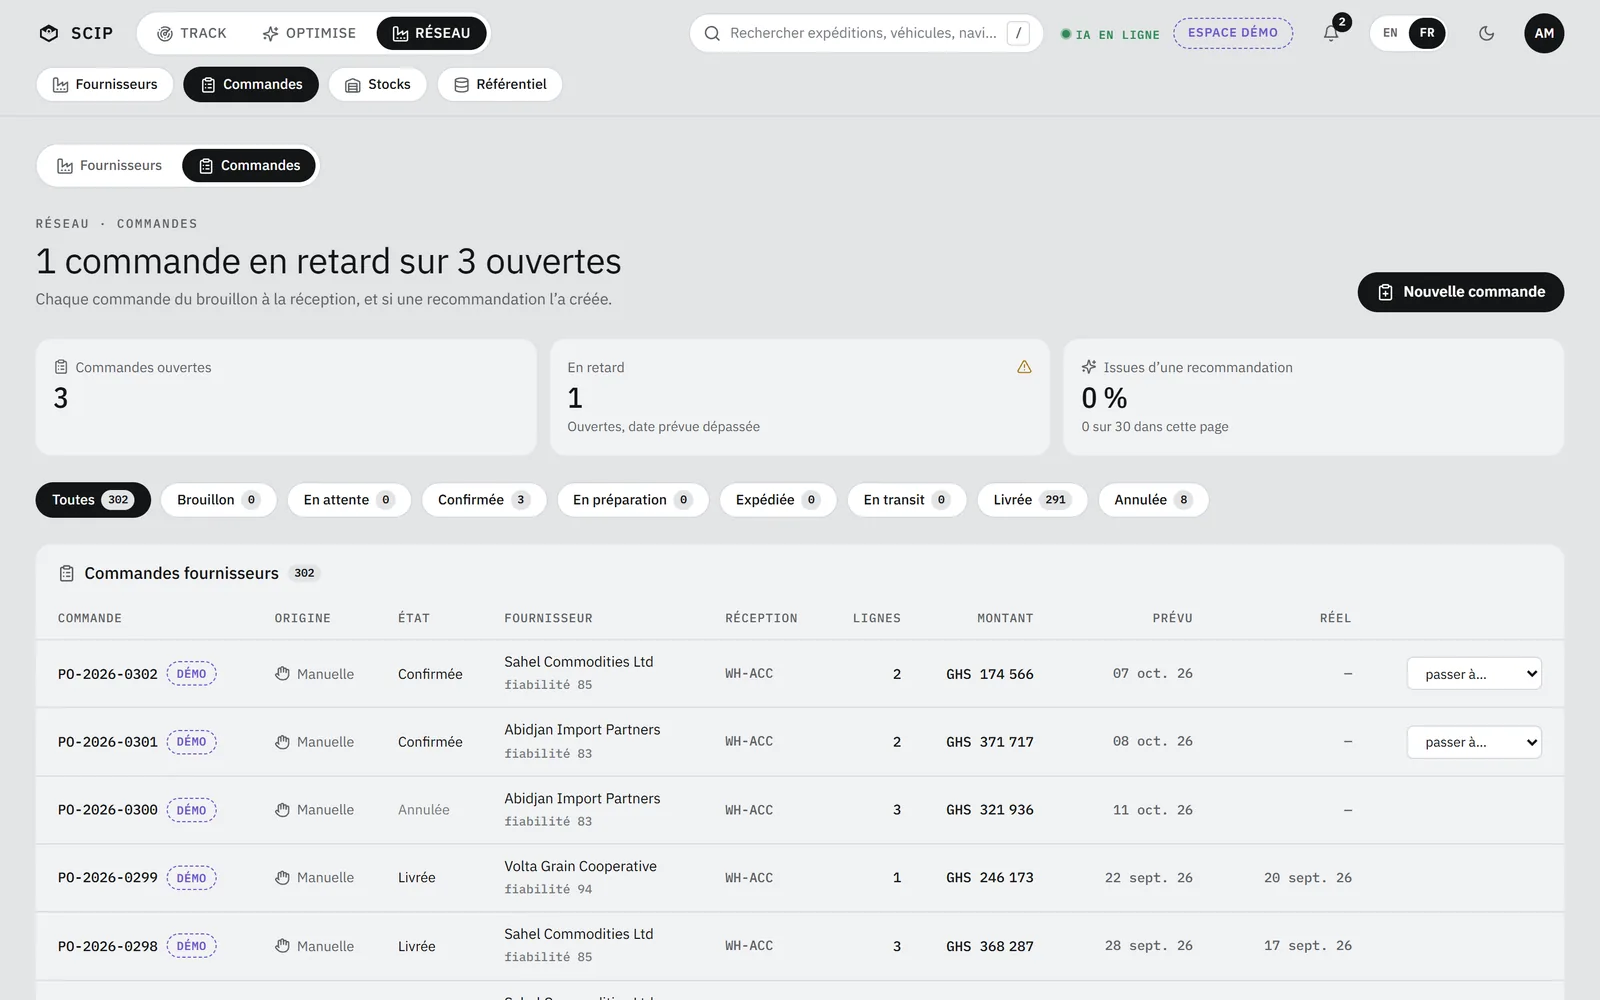
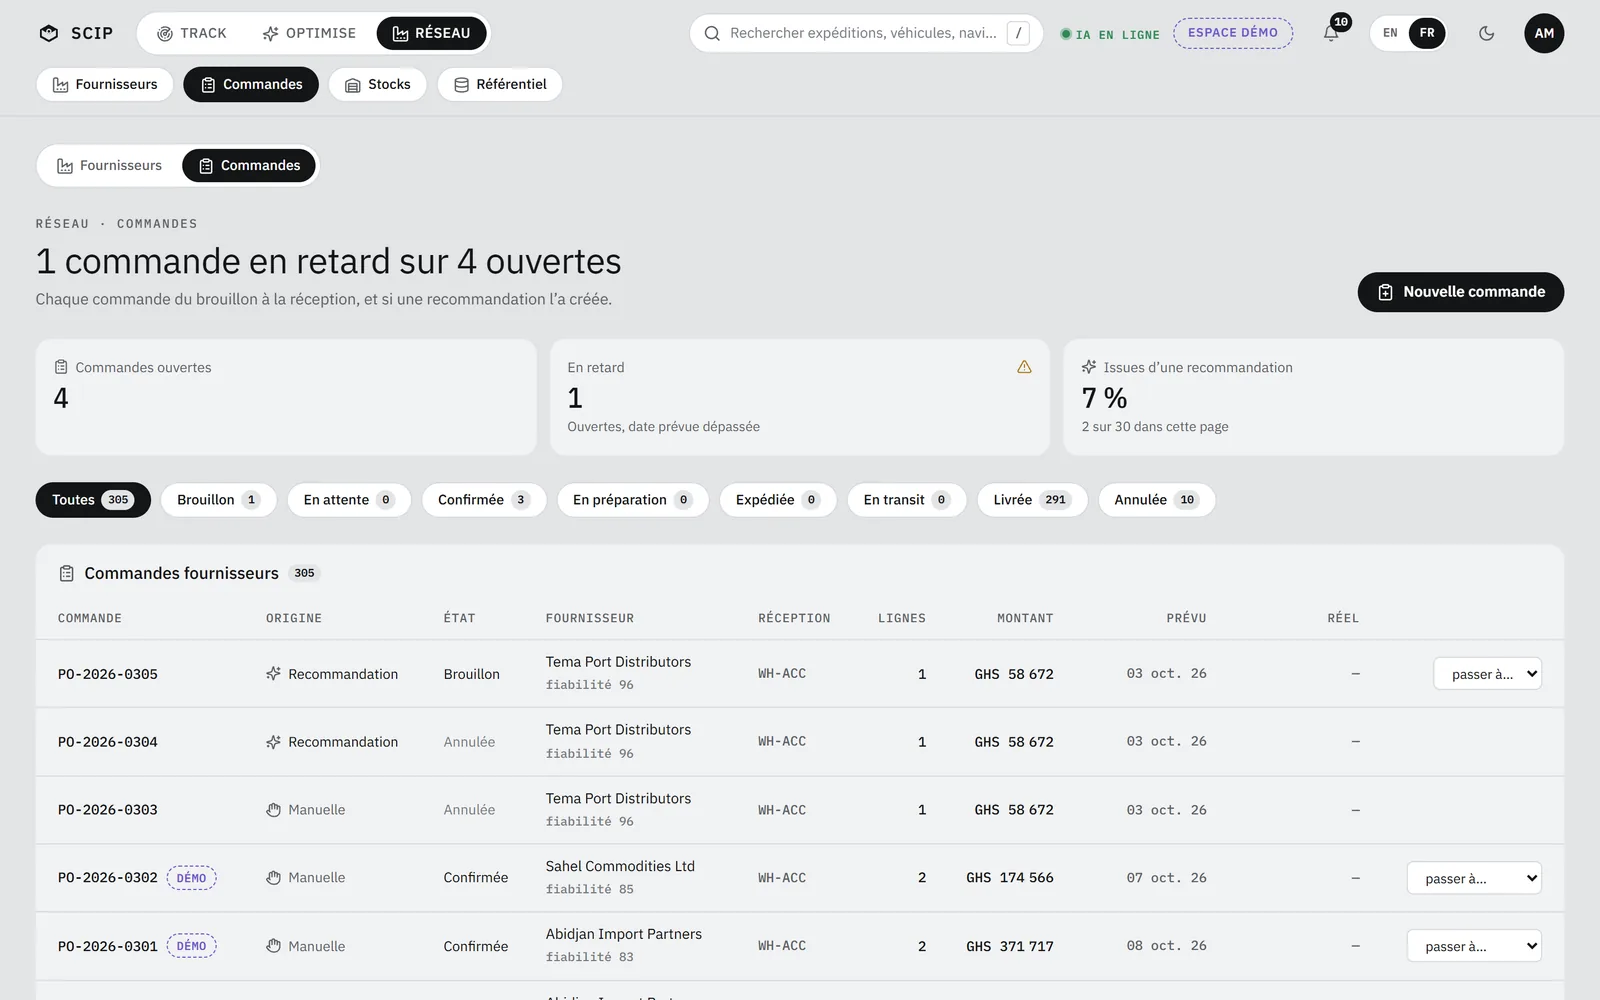
feat(site): captures and figures of the fixed demo
Conseils, Control and Commandes are shown as the next version displays them
(docs/captures/v0.2.2): three open recommendations, the critical one to order
2 963 units of SKU-006 from Tema Port Distributors with its first reason, and
the purchase order created by accepting it. Same conversion as the other
captures (1600 px wide, WebP quality 82). The copy and the alternative texts
quote these screens.

The installer capture is left as it is: the new one is labelled 0.2.2, a
version that will not exist.

To publish with the release that carries these fixes, not before.

diff --git a/optimisation.html b/optimisation.html
@@ -47,7 +47,7 @@
             <img src="assets/screens/tournees.webp" width="1600" height="1000" decoding="async" alt="Écran Tournées de SCIP : une tournée, cinq arrêts, trois non desservis.">
           </div>
           <div class="shot-win fan-b tilt" data-tilt="2" data-tilt-base="rotate(1deg)">
-            <img src="assets/screens/conseils.webp" width="1600" height="1000" fetchpriority="high" decoding="async" alt="Écran Conseils de SCIP : « 2 conseils ouverts ».">
+            <img src="assets/screens/conseils.webp" width="1600" height="1000" fetchpriority="high" decoding="async" alt="Écran Conseils de SCIP : « 3 conseils ouverts, 1 critique(s) », en tête « Commander 2 963 unités de SKU-006 auprès de Tema Port Distributors ».">
           </div>
         </div>
         <figcaption>Prévisions · Conseils · Tournées <span class="demo-tag">données démo</span></figcaption>
@@ -71,10 +71,10 @@
           <span class="mono n">01</span>
           <h3 class="t-section">Conseils</h3>
           <p class="t-body">Chaque recommandation porte « Pourquoi cette recommandation&nbsp;? » : un résumé, des raisons, des hypothèses. Deux boutons : « accepter et exécuter », « écarter ».</p>
-          <p class="fact">Dans la démo : 2 conseils ouverts. « Réduire le volume confié à Abidjan Import Partners », 72&nbsp;% de ponctualité ; « SKU&#8209;008 représente 158 jours de couverture ».</p>
+          <p class="fact">Dans la démo : 3 conseils ouverts, dont 1 critique. En tête : « Commander 2&nbsp;963 unités de SKU&#8209;006 auprès de Tema Port Distributors ». Première raison affichée : « Le calcul porte sur Accra Central DC seul : ce site est sous son point de commande. »</p>
         </div>
         <figure class="shot reveal">
-          <div class="shot-win" data-float="14"><img src="assets/screens/conseils-pourquoi.webp" width="1600" height="1000" loading="lazy" decoding="async" alt="Écran Conseils de SCIP, « Pourquoi cette recommandation ? » déplié : trois raisons, une hypothèse, les boutons « accepter et exécuter » et « écarter », la mention « Rien n'est envoyé sans accord humain »."></div>
+          <div class="shot-win" data-float="14"><img src="assets/screens/conseils-pourquoi.webp" width="1600" height="1000" loading="lazy" decoding="async" alt="Écran Conseils de SCIP, « Pourquoi cette recommandation ? » déplié sur le conseil de commande du SKU-006 : les raisons, dont « Le calcul porte sur Accra Central DC seul », les boutons « accepter et exécuter » et « écarter », la mention « Rien n'est envoyé sans accord humain »."></div>
           <figcaption>Optimise · Conseils <span class="demo-tag">données démo</span></figcaption>
         </figure>
       </article>

diff --git a/index.html b/index.html
@@ -157,14 +157,14 @@
       </div>
       <figure class="shot loop-shot reveal">
         <div class="shot-win" data-float="18">
-          <img src="assets/screens/control.webp" width="1600" height="1000" loading="lazy" decoding="async" alt="Écran Control de SCIP : « 2 décisions en attente », six indicateurs, la Boucle de décision en quatre étapes, les décisions en attente et la file d'alertes avec les retards de SHP-DEMO-0054 et SHP-DEMO-0055.">
+          <img src="assets/screens/control.webp" width="1600" height="1000" loading="lazy" decoding="async" alt="Écran Control de SCIP : « 3 décisions en attente, 1 critique », six indicateurs, la Boucle de décision en quatre étapes, les décisions en attente et la file d'alertes avec les retards de SHP-DEMO-0054 et SHP-DEMO-0055.">
         </div>
         <figcaption>Track · Control <span class="demo-tag">données démo</span> <span class="cap-note">15 expéditions actives dont 2 en retard · 11 camions sur 12 émettent · 3 302 643 GHS de stock sur 10 références</span></figcaption>
       </figure>
       <ol class="loop-steps reveal">
-        <li style="--i: 0"><span class="mono n">01</span><b>TRACK détecte</b><span>2 signaux à examiner</span></li>
+        <li style="--i: 0"><span class="mono n">01</span><b>TRACK détecte</b><span>6 signaux à examiner</span></li>
         <li style="--i: 1"><span class="mono n">02</span><b>OPTIMISE recalcule</b><span>prévision, allocation, tournées</span></li>
-        <li style="--i: 2"><span class="mono n">03</span><b>Recommandation</b><span>2 ouvertes</span></li>
+        <li style="--i: 2"><span class="mono n">03</span><b>Recommandation</b><span>3 ouvertes</span></li>
         <li style="--i: 3"><span class="mono n">04</span><b>Décision humaine · BC créé</b><span>rien n&rsquo;est envoyé sans accord</span></li>
       </ol>
       <p class="loop-note reveal"><span class="demo-tag">données démo</span> Les libellés et les compteurs sont ceux de l&rsquo;écran ci-dessus. Au clavier dans Control : <kbd>J</kbd> <kbd>K</kbd> suivante, précédente · <kbd>A</kbd> accepter · <kbd>W</kbd> pourquoi&nbsp;? · <kbd>/</kbd> rechercher.</p>

diff --git a/reseau.html b/reseau.html
@@ -73,14 +73,14 @@
 
       <article class="tab-block flip">
         <figure class="shot reveal">
-          <div class="shot-win" data-float="14"><img src="assets/screens/commandes.webp" width="1600" height="1000" loading="lazy" decoding="async" alt="Écran Commandes de SCIP : « 1 commande en retard sur 3 ouvertes », liste des bons de commande avec leur statut."></div>
+          <div class="shot-win" data-float="14"><img src="assets/screens/commandes.webp" width="1600" height="1000" loading="lazy" decoding="async" alt="Écran Commandes de SCIP : « 1 commande en retard sur 4 ouvertes », liste des bons de commande ; en tête PO-2026-0305, origine « Recommandation », brouillon, Tema Port Distributors, WH-ACC, GHS 58 672."></div>
           <figcaption>Réseau · Commandes <span class="demo-tag">données démo</span></figcaption>
         </figure>
         <div class="tab-copy reveal">
           <span class="mono n">Commandes</span>
           <h3 class="t-section">De la recommandation au bon.</h3>
           <p class="t-body">Un bon de commande né d&rsquo;un conseil porte l&rsquo;origine « Recommandation ». Le menu « passer à… » le fait avancer : En attente, puis Confirmée.</p>
-          <p class="fact">Dans la démo : 1 commande en retard sur 3 ouvertes. Dans cette capture, toutes les commandes sont d&rsquo;origine « Manuelle ».</p>
+          <p class="fact">Dans la démo : 1 commande en retard sur 4 ouvertes. En tête de liste, le bon PO&#8209;2026&#8209;0305 créé en acceptant le conseil sur le SKU&#8209;006 : origine « Recommandation », brouillon, Tema Port Distributors, WH&#8209;ACC, GHS 58&nbsp;672.</p>
         </div>
       </article>
 
